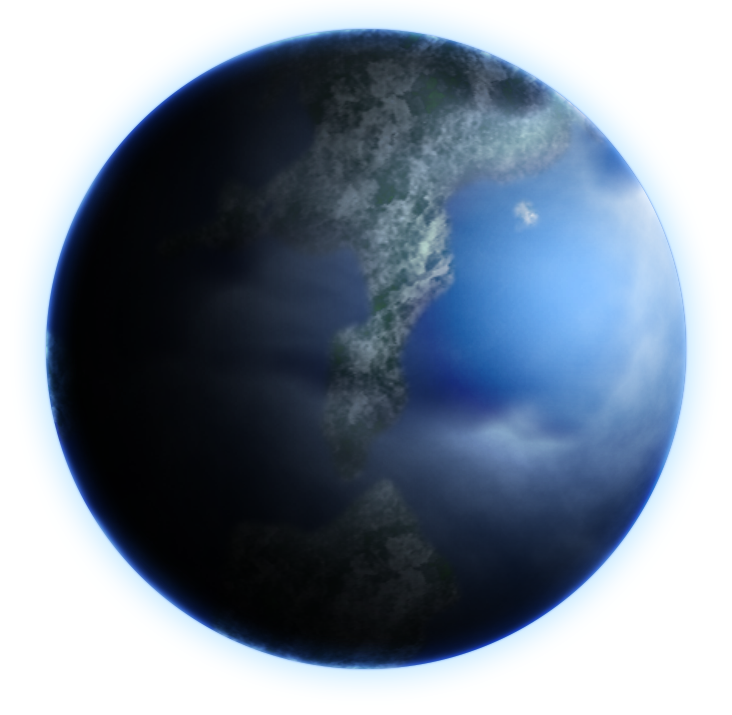
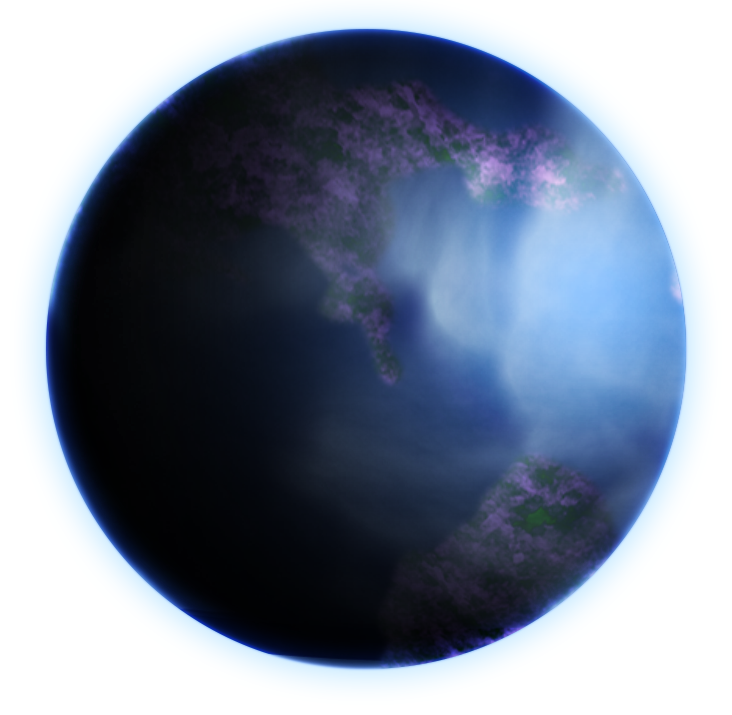
TESTtEXT

diff --git a/src/components/3d.js b/src/components/3d.js
@@ -529,13 +529,13 @@ export default class Index{
             function loadTextures() {
                 return new Promise((resolve, reject) => {
                     var textureLoader = new THREE.TextureLoader();
-                    textureLoader.load('img/Planets/Gaseous2-2.png', function(
+                    textureLoader.load('img/Planets/GAS2.png', function(
                         map
                     ) {
                         moonTex = map;
                     });
                     var textureLoader = new THREE.TextureLoader();
-                    textureLoader.load('img/Planets/gasGiant.png', function(
+                    textureLoader.load('img/Planets/GAS1.png', function(
                         map
                     ) {
                         planetTex = map;
@@ -577,7 +577,7 @@ export default class Index{
                 var x = 1;
                 var p1 = new Promise((resolve, reject) => {
                     var textureLoader = new THREE.TextureLoader();
-                    textureLoader.load('img/Planets/Gaseous2-2.png', function(
+                    textureLoader.load('img/Planets/GAS2.png', function(
                         map
                     ) {
                         moonTex = map;
@@ -593,7 +593,7 @@ export default class Index{
                     .then(x => {
                         x++;
                         var textureLoader = new THREE.TextureLoader();
-                        textureLoader.load('img/Planets/gasGiant.png', function(
+                        textureLoader.load('img/Planets/GAS1.png', function(
                             map
                         ) {
                             planetTex = map;
